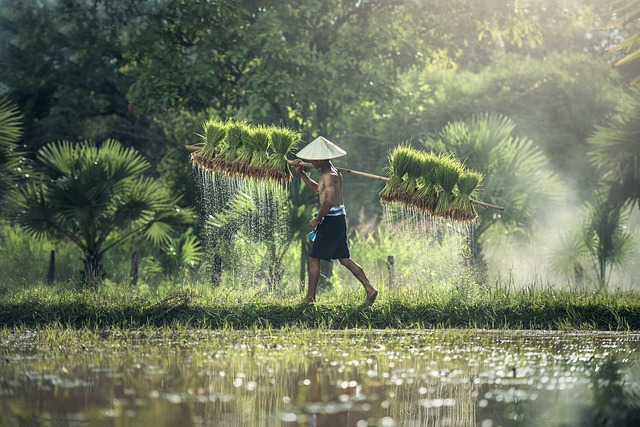
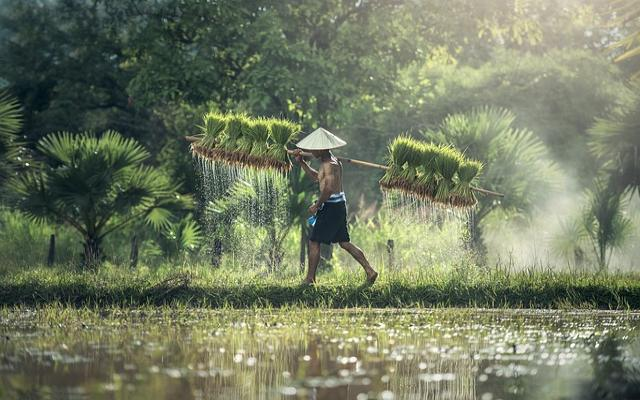
fixed images size

Changed region(s): [[0.4688, 0.54, 0.5, 0.57]]

diff --git a/js/script.js b/js/script.js
@@ -19,7 +19,7 @@ document.addEventListener("DOMContentLoaded", function () {
         };
 
         // Call API using Fetch
-        fetch("http://localhost:5000/predict", {
+        fetch("https://261f-2409-4089-ae01-1841-64d3-8de4-b978-e4d6.ngrok-free.app", {
             method: "POST",
             headers: {
                 "Content-Type": "application/json"

diff --git a/app.py b/app.py
@@ -5,7 +5,7 @@ import numpy as np
 import pandas as pd
 from flask_cors import CORS
 app = Flask(__name__)
-CORS(app)
+CORS(app, resources={r"/*": {"origins": "*"}}) 
 
 # Load trained model
 with open('model.pkl', 'rb') as model_file:
